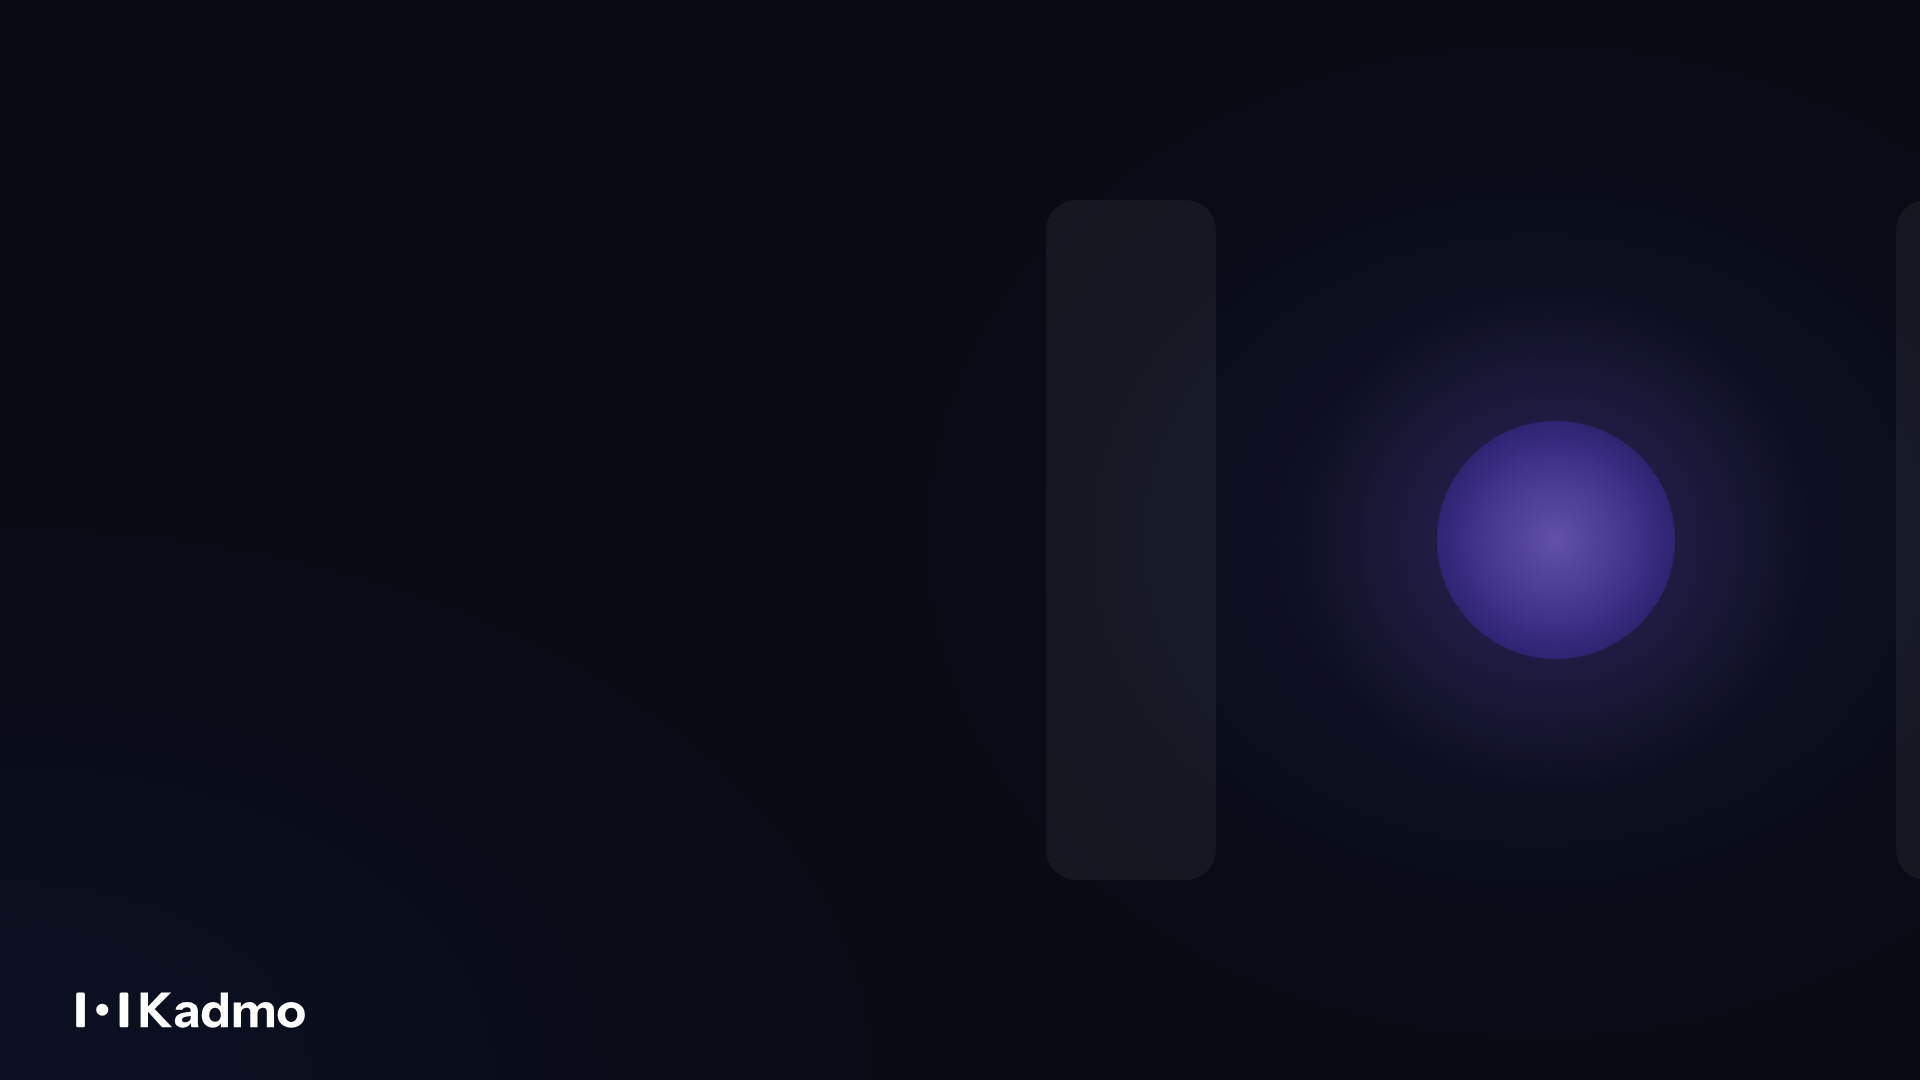
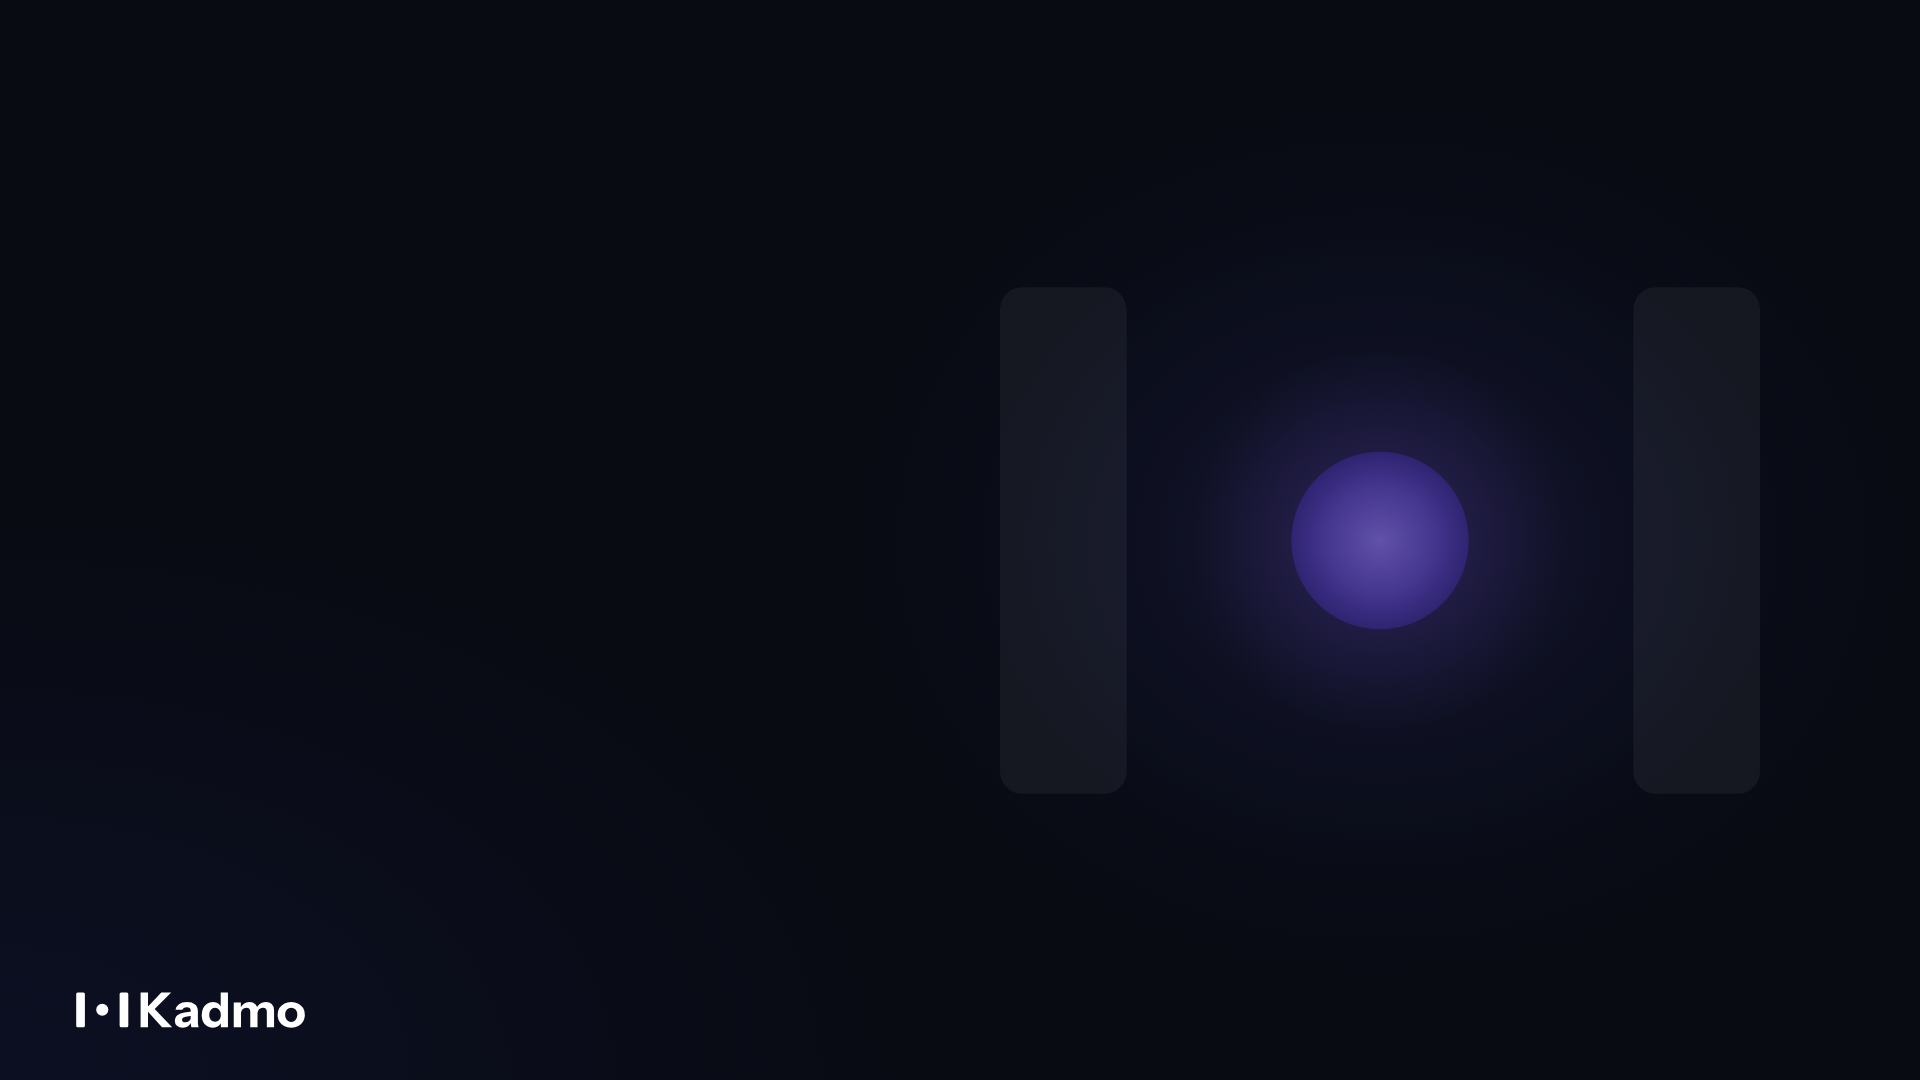
fix(base): the wallpaper's mark stands whole — both posts and the disc inside the frame
The mark bled off the right edge (its right post was cut). It now stands whole at the right,
760 x 507 (the mark's 246 : 164), 160 px from the edge, centred in height, with the light
following the disc. Same ground, colours and lockup; 1920 x 1080, lossless.

Changed region(s): [[0.6562, 0.3361, 0.875, 0.6722]]

diff --git a/base/assets/wallpaper.html b/base/assets/wallpaper.html
@@ -1,15 +1,14 @@
 <!doctype html>
-<!-- The Kadmo agent desktop wallpaper, 1920 x 1080. The ground is Night, the mark stands large and faint off the right
-     edge with its disc in the one violet, and the lockup sits in white at the foot. Colours from the Kadmo token file
+<!-- The Kadmo agent desktop wallpaper, 1920 x 1080. The ground is Night, the mark stands large and faint, whole, at the right with its disc in the one violet, and the lockup sits in white at the foot. Colours from the Kadmo token file
      (ground.night, core.violet, ramp.violet.900/950); the lockup is the site's (brand/site-assets/og-home.html).
      Render: chrome --headless=new --hide-scrollbars --window-size=1920,1080 --screenshot=wallpaper.png wallpaper.html -->
 <meta charset="utf-8">
 <style>
   html,body{margin:0;width:1920px;height:1080px;overflow:hidden;background:#080B12}
   .glow{position:absolute;inset:0;background:
-    radial-gradient(ellipse 40% 58% at 80% 50%, rgba(124,92,255,.13) 0, rgba(34,34,95,.18) 40%, rgba(21,24,66,.08) 64%, transparent 84%),
+    radial-gradient(ellipse 34% 50% at 71.9% 50%, rgba(124,92,255,.13) 0, rgba(34,34,95,.18) 40%, rgba(21,24,66,.08) 64%, transparent 84%),
     radial-gradient(ellipse 80% 90% at 0% 100%, rgba(21,24,66,.35) 0, transparent 60%)}
-  .mark{position:absolute;left:1046px;top:200px;width:1020px;height:680px}
+  .mark{position:absolute;left:1000px;top:287px;width:760px;height:507px}
   .lockup{position:absolute;left:76px;bottom:52px;height:36px;width:auto}
 </style>
 <body>
